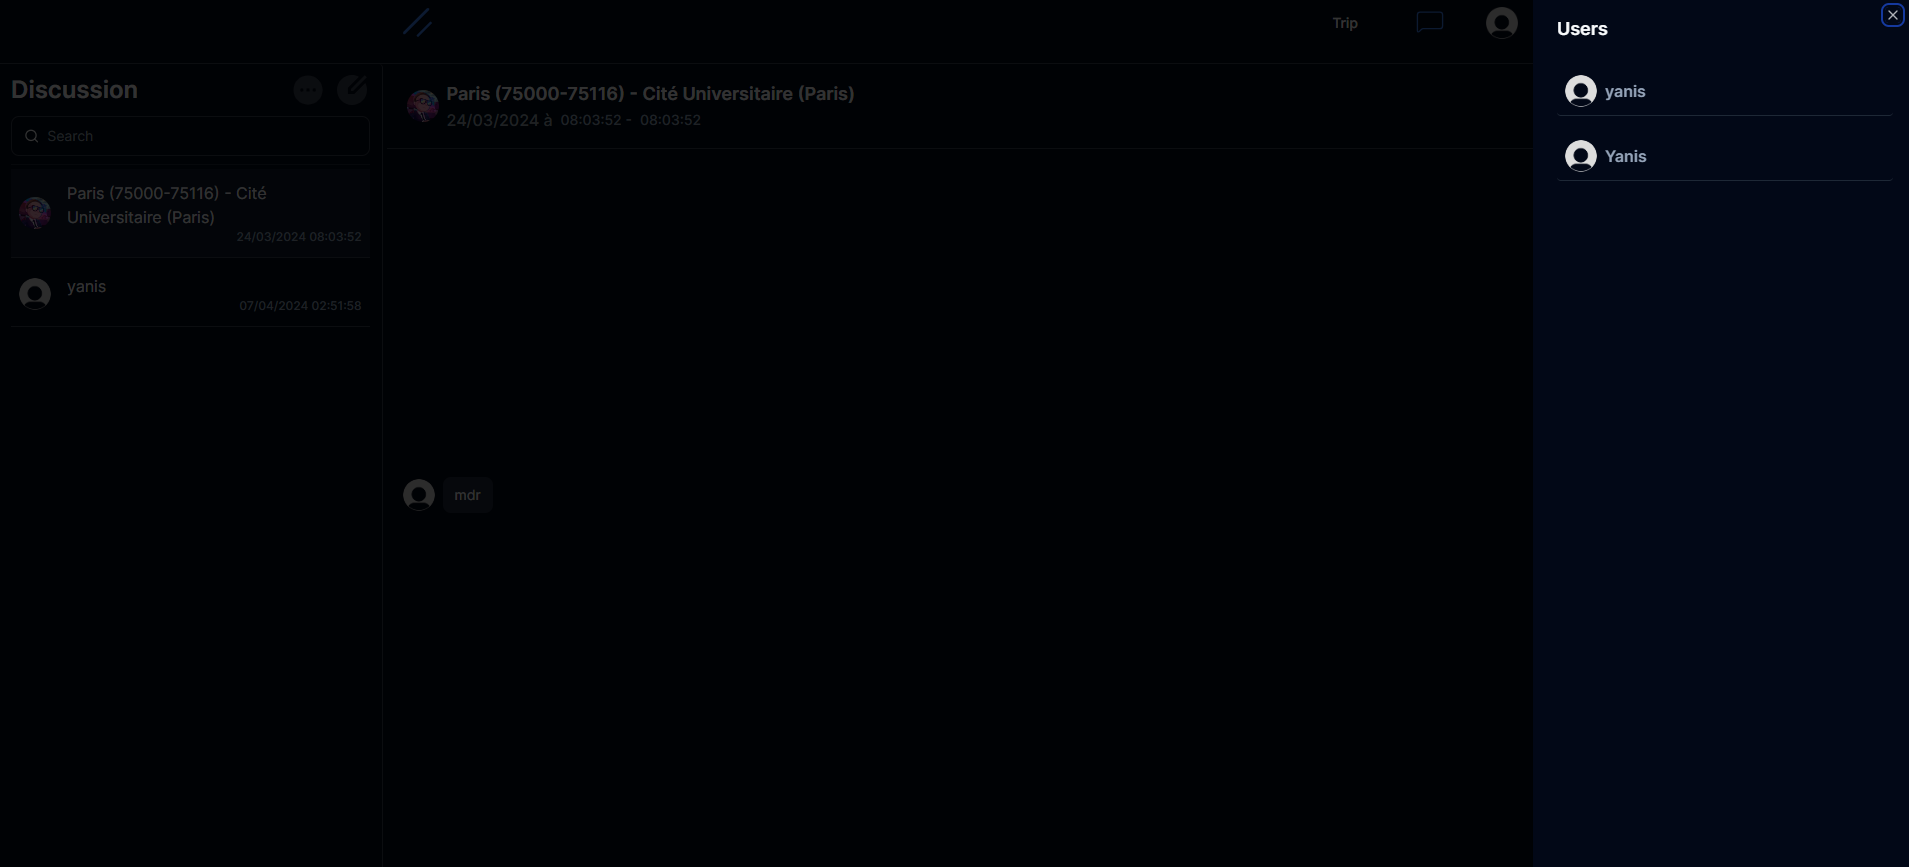
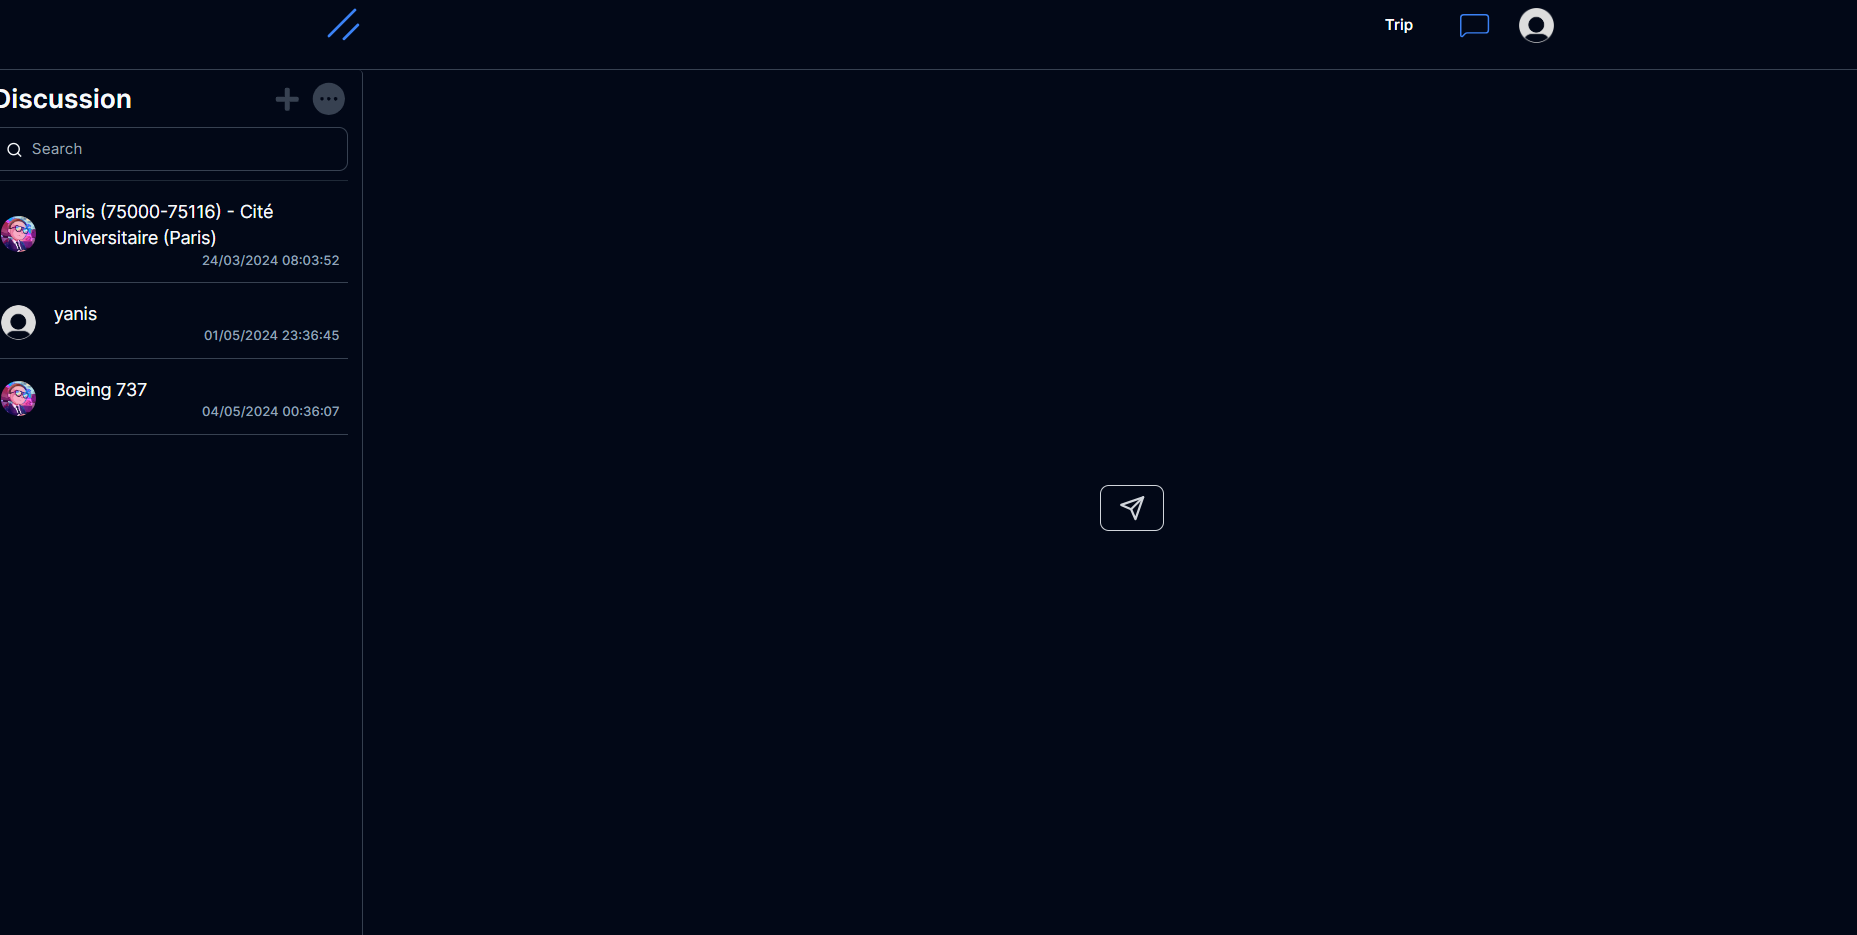
added a thing

diff --git a/frontend/app/chat/(main)/page.tsx b/frontend/app/chat/(main)/page.tsx
@@ -1,4 +1,5 @@
 import React from 'react';
+import { LuSend } from "react-icons/lu";
 
 interface PageProps {
 
@@ -6,8 +7,10 @@ interface PageProps {
 
 function Page({}:PageProps) {
     return (
-        <div className="">
-           <h1 className='text-white'>Page</h1>
+        <div className="flex-1 flex flex-col items-center justify-center ">
+            <div className="px-4 py-2  border border-gray-300  rounded-lg hover:bg-gray-200/10 transation-all duration-200 ">
+                <LuSend className="h-6 w-6 text-gray-300 " />
+            </div>
         </div>
     );
 };
